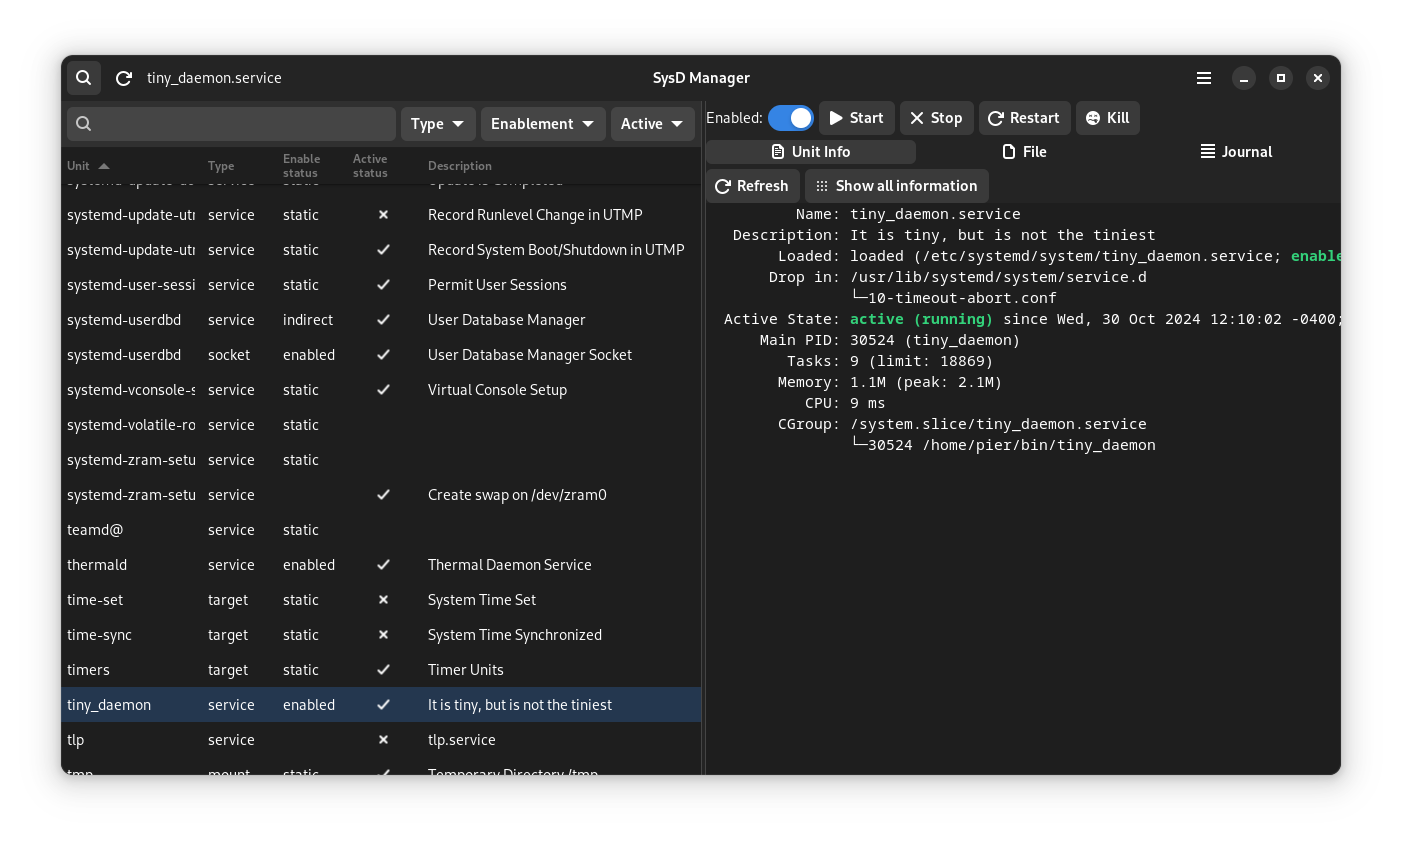
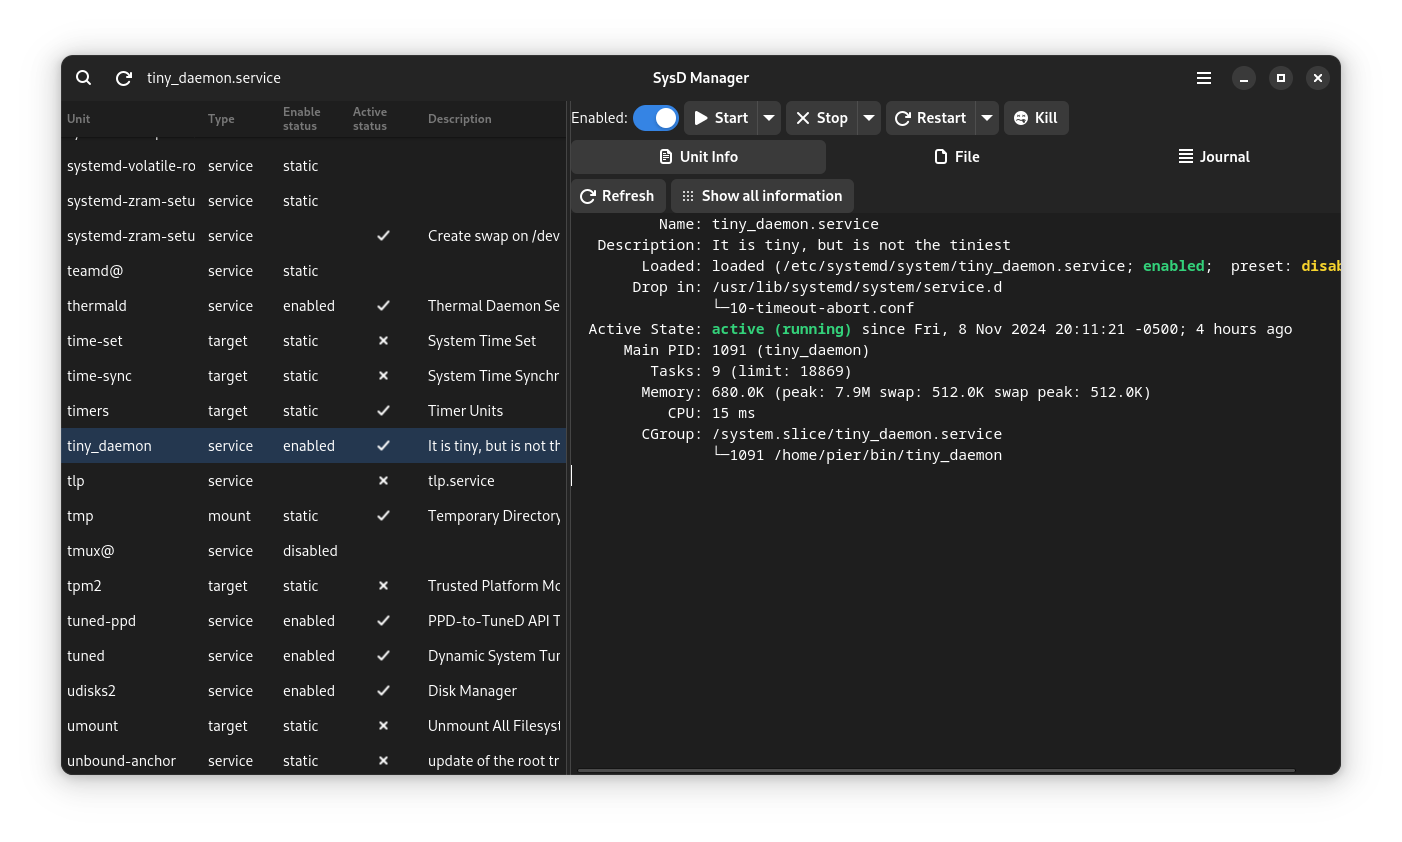
fix unit missing info

Changed region(s): [[0.0307, 0.1235, 0.9508, 0.9264], [0.8894, 0.2779, 0.9508, 0.3397], [0.8588, 0.1544, 0.8894, 0.2162]]

diff --git a/src/systemd/sysdbus.rs b/src/systemd/sysdbus.rs
@@ -9,6 +9,7 @@ use log::debug;
 /* use dbus::arg::messageitem::MessageItem;
 use dbus::Message; */
 use log::info;
+use log::trace;
 use log::warn;
 use serde::Deserialize;
 use zbus::blocking::fdo;
@@ -35,8 +36,8 @@ use super::SystemdErrors;
 use super::SystemdUnit;
 
 const DESTINATION_SYSTEMD: &str = "org.freedesktop.systemd1";
-const INTERFACE_SYSTEMD_UNIT: &str = "org.freedesktop.systemd1.Unit";
-const INTERFACE_SYSTEMD_MANAGER: &str = "org.freedesktop.systemd1.Manager";
+pub(super) const INTERFACE_SYSTEMD_UNIT: &str = "org.freedesktop.systemd1.Unit";
+pub(super) const INTERFACE_SYSTEMD_MANAGER: &str = "org.freedesktop.systemd1.Manager";
 const PATH_SYSTEMD: &str = "/org/freedesktop/systemd1";
 
 const METHOD_LIST_UNIT: &str = "ListUnits";
@@ -501,15 +502,20 @@ fn convert_to_string(value: &zvariant::Value) -> String {
     str_value
 }
 
-pub fn fetch_system_info(level: DbusLevel) -> Result<BTreeMap<String, String>, SystemdErrors> {
-    fetch_system_unit_info(level, PATH_SYSTEMD)
+pub fn fetch_system_info(
+    level: DbusLevel,
+    unit_type: UnitType,
+) -> Result<BTreeMap<String, String>, SystemdErrors> {
+    fetch_system_unit_info(level, PATH_SYSTEMD, unit_type)
 }
 
 pub fn fetch_system_unit_info(
     level: DbusLevel,
     path: &str,
+    unit_type: UnitType,
 ) -> Result<BTreeMap<String, String>, SystemdErrors> {
-    let properties: HashMap<String, OwnedValue> = fetch_system_unit_info_native(level, path)?;
+    let properties: HashMap<String, OwnedValue> =
+        fetch_system_unit_info_native(level, path, unit_type)?;
 
     let mut map = BTreeMap::new();
 
@@ -526,6 +532,7 @@ pub fn fetch_system_unit_info(
 pub fn fetch_system_unit_info_native(
     level: DbusLevel,
     path: &str,
+    unit_type: UnitType,
 ) -> Result<HashMap<String, OwnedValue>, SystemdErrors> {
     let connection = get_connection(level)?;
 
@@ -536,11 +543,23 @@ pub fn fetch_system_unit_info_native(
             .path(path)?
             .build()?;
 
-    let interface_name = InterfaceName::try_from(INTERFACE_SYSTEMD_UNIT).unwrap();
-    let properties: HashMap<String, OwnedValue> = properties_proxy.get_all(interface_name)?;
+    let unit_interface = unit_type.interface();
 
-    debug!("properties {:?}", properties);
-    Ok(properties)
+    let unit_interface_name = InterfaceName::try_from(INTERFACE_SYSTEMD_UNIT).unwrap();
+
+    let mut unit_properties: HashMap<String, OwnedValue> =
+        properties_proxy.get_all(unit_interface_name)?;
+
+    if INTERFACE_SYSTEMD_UNIT != unit_interface {
+        let interface_name = InterfaceName::try_from(unit_interface).unwrap();
+
+        let properties: HashMap<String, OwnedValue> = properties_proxy.get_all(interface_name)?;
+
+        unit_properties.extend(properties);
+    }
+
+    trace!("properties {:?}", unit_properties);
+    Ok(unit_properties)
 }
 
 #[cfg(test)]
@@ -638,6 +657,7 @@ mod tests {
         let btree_map = fetch_system_unit_info(
             DbusLevel::System,
             "/org/freedesktop/systemd1/unit/tiny_5fdaemon_2eservice",
+            UnitType::Service,
         )?;
 
         debug!("ALL PARAM: {:#?}", btree_map);
@@ -659,6 +679,20 @@ mod tests {
         init();
         let _res = disable_unit_files(DbusLevel::System, TEST_SERVICE)?;
 
+        Ok(())
+    }
+
+    #[ignore = "need a connection to a service"]
+    #[test]
+    fn test_fetch_info() -> Result<(), SystemdErrors> {
+        init();
+
+        let path = get_unit_object_path(DbusLevel::System, TEST_SERVICE)?;
+
+        println!("unit {} Path {}", TEST_SERVICE, path);
+        let map = fetch_system_unit_info(DbusLevel::System, &path, UnitType::Service)?;
+
+        println!("{:#?}", map);
         Ok(())
     }
 }

diff --git a/src/systemd/enums.rs b/src/systemd/enums.rs
@@ -7,6 +7,9 @@ use std::cell::RefCell;
 use std::fmt::Display;
 use strum::EnumIter;
 
+use super::sysdbus::INTERFACE_SYSTEMD_MANAGER;
+use super::sysdbus::INTERFACE_SYSTEMD_UNIT;
+
 #[derive(Clone, Copy, Debug, PartialEq, Eq, EnumIter, Default)]
 pub enum EnablementStatus {
     #[default]
@@ -172,10 +175,12 @@ pub enum UnitType {
     Scope,
     Service,
     Slice,
+    Snapshot,
     Socket,
     Swap,
     Target,
     Timer,
+    Manager,
     Unknown(String),
 }
 
@@ -195,6 +200,7 @@ impl UnitType {
             "swap" => UnitType::Swap,
             "target" => UnitType::Target,
             "timer" => UnitType::Timer,
+            "snapshot" => UnitType::Snapshot,
             _ => {
                 info!("Unknown Type: {}", system_type);
                 UnitType::Unknown(system_type.to_string())
@@ -216,7 +222,31 @@ impl UnitType {
             Self::Target => "target",
             Self::Timer => "timer",
             Self::Swap => "swap",
-            Self::Unknown(_) => "",
+            Self::Snapshot => "snapshot",
+            _ => "",
+        };
+
+        str_label
+    }
+
+    pub fn interface(&self) -> &str {
+        let str_label = match self {
+            Self::Automount => "org.freedesktop.systemd1.Automount",
+            //Self::Busname => "busname",
+            Self::Device => "org.freedesktop.systemd1.Device",
+            Self::Mount => "org.freedesktop.systemd1.Mount",
+            Self::Path => "org.freedesktop.systemd1.Path",
+            Self::Scope => "org.freedesktop.systemd1.Sscope",
+            Self::Service => "org.freedesktop.systemd1.Service",
+            Self::Slice => "org.freedesktop.systemd1.Slice",
+            Self::Socket => "org.freedesktop.systemd1.Socket",
+            Self::Target => "org.freedesktop.systemd1.Target",
+            Self::Timer => "org.freedesktop.systemd1.Timer",
+            Self::Swap => "org.freedesktop.systemd1.Swap",
+            Self::Snapshot => "org.freedesktop.systemd1.Snapshot",
+            Self::Manager => INTERFACE_SYSTEMD_MANAGER,
+            
+            _ => INTERFACE_SYSTEMD_UNIT,
         };
 
         str_label

diff --git a/src/systemd/mod.rs b/src/systemd/mod.rs
@@ -17,8 +17,8 @@ use std::fs::{self, File};
 use std::io::{ErrorKind, Read, Write};
 use zvariant::OwnedValue;
 
-use crate::widget::preferences::data::PREFERENCES;
 use crate::widget::preferences::data::DbusLevel;
+use crate::widget::preferences::data::PREFERENCES;
 
 pub mod enums;
 
@@ -392,19 +392,22 @@ fn flatpak_host_file_path(file_path: &str) -> Cow<'_, str> {
 
 pub fn fetch_system_info() -> Result<BTreeMap<String, String>, SystemdErrors> {
     let level: DbusLevel = PREFERENCES.dbus_level().into();
-    sysdbus::fetch_system_info(level)
+    let unit_type: UnitType = UnitType::Unknown("SystemD".to_string());
+    sysdbus::fetch_system_info(level, unit_type)
 }
 
 pub fn fetch_system_unit_info(unit: &UnitInfo) -> Result<BTreeMap<String, String>, SystemdErrors> {
     let level: DbusLevel = PREFERENCES.dbus_level().into();
-    sysdbus::fetch_system_unit_info(level, &unit.object_path())
+    let unit_type: UnitType = UnitType::new(&unit.unit_type());
+    sysdbus::fetch_system_unit_info(level, &unit.object_path(), unit_type)
 }
 
 pub fn fetch_system_unit_info_native(
     unit: &UnitInfo,
 ) -> Result<HashMap<String, OwnedValue>, SystemdErrors> {
     let level: DbusLevel = PREFERENCES.dbus_level().into();
-    sysdbus::fetch_system_unit_info_native(level, &unit.object_path())
+    let unit_type: UnitType = UnitType::new(&unit.unit_type());
+    sysdbus::fetch_system_unit_info_native(level, &unit.object_path(), unit_type)
 }
 
 pub fn kill_unit(unit: &UnitInfo, who: KillWho, signal: i32) -> Result<(), SystemdErrors> {
